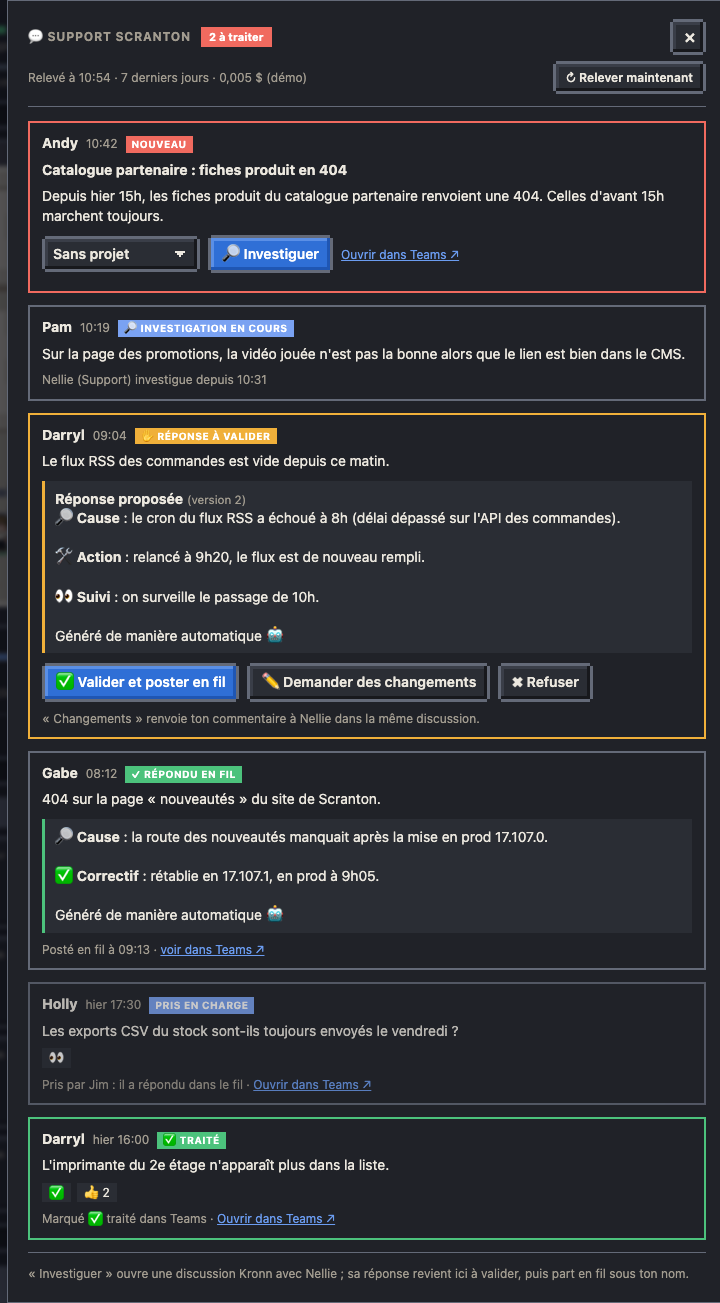
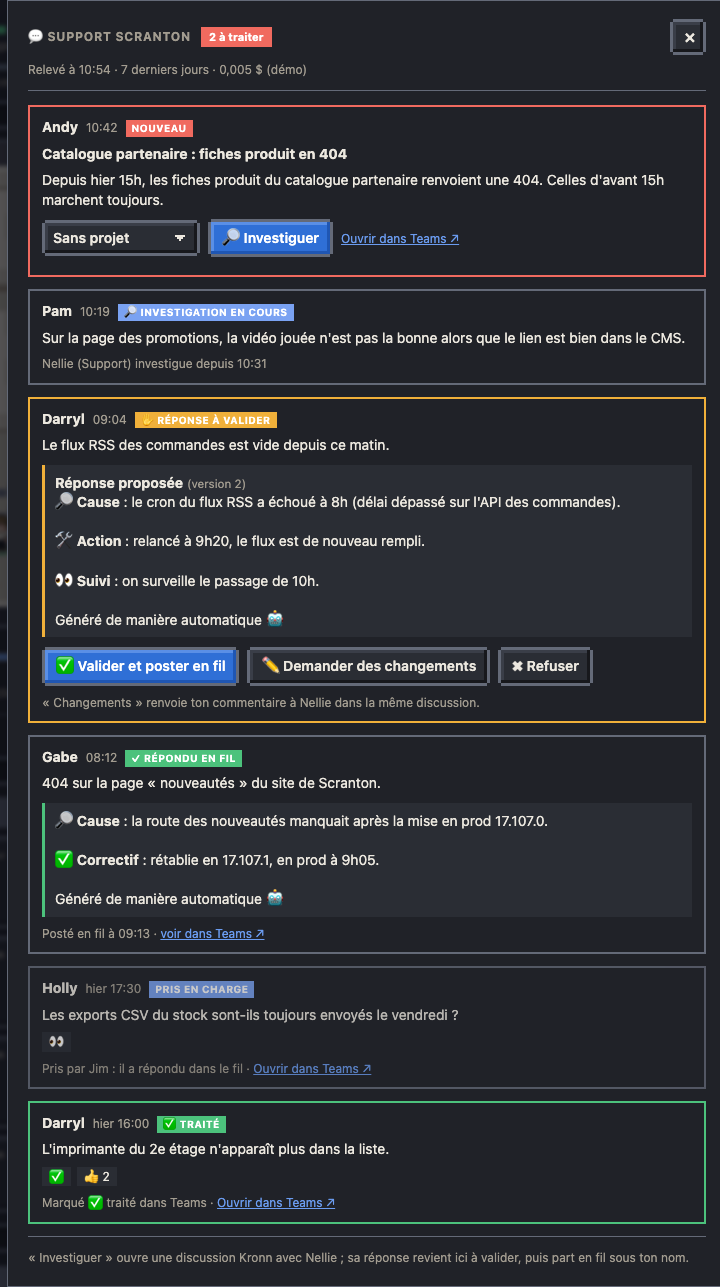
fix: Support (Fraîcheur, Jira, réessayer après refus) et scènes d'équipe visibles en direct (#101)
## 🎯 Quoi et pourquoi
Suites de la console Support (#62) et des scènes d'équipe, vues en vrai
:
- le relevé Support n'avait pas sa ligne dans le panneau Fraîcheur des
données (`FRESH_SRC` ne l'avait pas reçu), donc pas de « ↻ » comme les
autres crons du Bureau ; la fenêtre Support avait à la place son propre
« Relever maintenant » : deux endroits pour la même action ;
- première investigation avec un ticket Jira cité (EW-7929) : l'étape
Agent n'a que ses outils déclarés (`agent_settings.tools`), sans
connecteur Atlassian. C'est l'agent de la discussion, réveillé par
chaque `disc_append` du Pompier, qui a lu le ticket, en parallèle et en
contradiction avec lui (« récupéré via l'API Jira » puis « impossible
d'ouvrir le ticket ») ;
- refuser une réponse à la gate passait le fil en « ignoré » sans «
Investiguer » : impossible de réessayer depuis la fenêtre ;
- Gandalf (ticket réouvert, scène de 3 min) et la soucoupe-mère ne se
voyaient presque jamais en direct : le cron équipe passe toutes les 10
min, la page apprenait l'événement après la fin de la scène (vu le 21 :
EW-7814 réouvert à 14h36, connu à 14h40).

## 🔧 Changements
**Panneau Fraîcheur** (fix(page))
- `page/src/33-freshness.js` : ligne « Support (Teams) »
(`support_poll`, rien en démo), donc son « ↻ » / « ↻ Relancer » ; le
dernier relevé en échec dans le diagnostic.
- Test (`tests/logic.test.js`), guide `10-fraicheur.md`.

**Un seul endroit pour relever** (refactor(support))
[…]

diff --git a/page/src/48-support.js b/page/src/48-support.js
@@ -86,9 +86,9 @@ function spCard(t){
   if(st==='answered')h+=`<div class="sp-s">Pris par ${esc(spWho(t.by))} : il a répondu dans le fil · ${spTeams(t)}</div>`;
   if(st==='relaunched')h+=`<div class="sp-s">${esc(spWho(t.from))} a relancé après la réponse de ${esc(spWho(t.by))} · ${spTeams(t)}</div>`;
   if(st==='resolved')h+=`<div class="sp-s">Marqué ✅ traité dans Teams · ${spTeams(t)}</div>`;
-  if(st==='ignored')h+=`<div class="sp-s">Réponse refusée : rien n'a été posté${dl}.</div>`;
+  if(st==='ignored')h+=`<div class="sp-s">Réponse refusée : rien n'a été posté${dl}. Tu peux relancer une investigation.</div>`;
   el.innerHTML=h;
-  if(st==='new'||st==='failed'||st==='relaunched')spInvestigate(el,t);
+  if(st==='new'||st==='failed'||st==='relaunched'||st==='ignored')spInvestigate(el,t); // ignoré : réponse refusée, on peut réessayer
   if(st==='gate')spGate(el,t,s.g,dl);
   return el;
 }
@@ -137,8 +137,7 @@ function spHead(){
   const polled=S.polled_at?'Relevé à '+spWhen(S.polled_at)+(S.days?' · '+S.days+' derniers jours':'')+(S.cost?' · '+String(S.cost).replace('.',',')+' $':''):'Pas encore relevé';
   return `<div class="bp-head sp-head"><h2>💬 ${esc(spName())}</h2><span class="sp-pill${n?' sp-hot':''}">${n?n+' à traiter':'rien à traiter'}</span>`+
     `<button type="button" class="bp-x" aria-label="Fermer">×</button></div>`+
-    `<div class="sp-host" data-kronn-action-slot-host><div class="sp-bar"><span class="sp-s">${esc(polled)}${S.demo?' (démo)':''}</span>`+
-    (ACTIONS.support_poll?'<button type="button" class="sp-poll" data-kronn-action="bureau-supportpoll">↻ Relever maintenant</button>':'')+'</div></div>'+
+    `<div class="sp-bar"><span class="sp-s">${esc(polled)}${S.demo?' (démo)':''}</span></div>`+ // relever maintenant : « ↻ » du panneau Fraîcheur
     (S.error?`<p class="sp-err">Dernier relevé en échec : ${esc(S.error)}</p>`:'');
 }
 function openSupport(){
@@ -156,11 +155,8 @@ function spFill(box){
   const l=spThreads().sort((a,b)=>ms(b.at)-ms(a.at));
   for(const t of l)box.appendChild(spCard(t));
   if(!l.length){const S=SUPPORT||{};box.insertAdjacentHTML('beforeend',`<div class="sp-empty"><div class="sp-e-ico">${S.polled_at?'🧯':'📡'}</div><b>${S.polled_at?'Rien à signaler':'Pas encore de relevé'}</b>`+
-    `<span>${S.polled_at?'Aucun message sur '+esc(spName())+' ces '+(S.days||7)+' derniers jours.':'Le premier relevé arrive dans les 15 minutes'+(ACTIONS.support_poll?', ou tout de suite avec « Relever maintenant »':'')+'.'}</span></div>`);}
+    `<span>${S.polled_at?'Aucun message sur '+esc(spName())+' ces '+(S.days||7)+' derniers jours.':'Le premier relevé arrive dans les 15 minutes, ou tout de suite avec « ↻ » sur sa ligne de Fraîcheur des données.'}</span></div>`);}
   box.insertAdjacentHTML('beforeend',`<p class="sp-note">« Investiguer » ouvre une discussion Kronn avec ${esc((spAgent()||{name:'l\'agent Support'}).name)} ; sa réponse revient ici à valider, puis part en fil sous ton nom.</p>`);
-  const pb=box.querySelector('.sp-poll');
-  if(pb)new MutationObserver(()=>{const v=pb.getAttribute('data-kronn-action-state'), s=box.querySelector('.sp-bar .sp-s');
-    if(s&&v==='succeeded')s.innerHTML='<b style="color:var(--ok)">✓ Relevé lancé.</b> La fenêtre se met à jour toute seule, dans une minute environ.';}).observe(pb,{attributes:true,attributeFilter:['data-kronn-action-state']});
 }
 // fiche de l'agent Support : le nombre à traiter, les deux derniers fils, et la console (on y investigue : projet choisi
 // dans la liste, commentaire dans la carte Kronn)

diff --git a/page/office_template.html b/page/office_template.html
@@ -110,7 +110,6 @@
 <script type="application/kronn-action" data-action-id="bureau-fixpr">{"kind":"workflow","target_id":"__FIXPR_WF__","values":[{"name":"repo","provenance":"dynamic_binding","source_ref":"<page.dataset.actions.prs.find(id).repo>"},{"name":"pr","provenance":"dynamic_binding","source_ref":"<page.dataset.actions.prs.find(id).n>"},{"name":"notes","provenance":"user_input"}]}</script>
 <script type="application/kronn-action" data-action-id="bureau-meppr">{"kind":"workflow","target_id":"__MEPPR_WF__","values":[{"name":"project","provenance":"dynamic_binding","source_ref":"<page.dataset.actions.prs.find(id).repo>"},{"name":"pr_number","provenance":"dynamic_binding","source_ref":"<page.dataset.actions.prs.find(id).n>"},{"name":"jira_ticket_key","provenance":"user_input"},{"name":"dry_run","provenance":"user_input"}]}</script>
 <script type="application/kronn-action" data-action-id="bureau-support">{"kind":"workflow","target_id":"__SUPPORT_WF__","values":[{"name":"message_id","provenance":"dynamic_binding","source_ref":"<page.dataset.support.threads.find(id).id>"},{"name":"project_id","provenance":"dynamic_binding","source_ref":"<page.dataset.gates.projects.find(id).id>"},{"name":"comment","provenance":"user_input"}]}</script>
-<script type="application/kronn-action" data-action-id="bureau-supportpoll">{"kind":"workflow","target_id":"__SUPPORTPOLL_WF__","values":[]}</script>
 
 <script>
 /*__SCRIPTS__*/

diff --git a/tests/boot.test.js b/tests/boot.test.js
@@ -25,10 +25,10 @@ test('les données Kronn (window.KronnPageData) remplacent la démo', () => {
   assert.equal(run('LIVE_DATA'), true);
 });
 
-test('squelette : 21 blocs kronn-action et les marqueurs CSS / JS', () => {
+test('squelette : 20 blocs kronn-action et les marqueurs CSS / JS', () => {
   const html = fs.readFileSync(path.join(__dirname, '..', 'page', 'office_template.html'), 'utf8');
   const ids = [...html.matchAll(/<script type="application\/kronn-action" data-action-id="([^"]+)">/g)].map(m => m[1]);
-  assert.deepEqual(ids, ['bureau-ask', 'bureau-relaunch', 'bureau-gate', 'bureau-answer', 'bureau-impl', 'bureau-mep', 'bureau-review', 'bureau-fix', 'bureau-comment', 'bureau-estimate', 'bureau-duck', 'bureau-mailrules', 'bureau-avatar', 'bureau-agent', 'bureau-launch', 'bureau-pages', 'bureau-rebase', 'bureau-fixpr', 'bureau-meppr', 'bureau-support', 'bureau-supportpoll']);
+  assert.deepEqual(ids, ['bureau-ask', 'bureau-relaunch', 'bureau-gate', 'bureau-answer', 'bureau-impl', 'bureau-mep', 'bureau-review', 'bureau-fix', 'bureau-comment', 'bureau-estimate', 'bureau-duck', 'bureau-mailrules', 'bureau-avatar', 'bureau-agent', 'bureau-launch', 'bureau-pages', 'bureau-rebase', 'bureau-fixpr', 'bureau-meppr', 'bureau-support']);
   assert.equal(html.split('/*__STYLES__*/\n').length, 2);
   assert.equal(html.split('/*__SCRIPTS__*/\n').length, 2);
 });

diff --git a/tests/logic.test.js b/tests/logic.test.js
@@ -251,6 +251,18 @@ test('fraîcheur : texte d\'attente en secondes, en minutes, puis en pause hors 
   assert.equal(w('live', '2026-10-03T19:59:10Z', '2026-10-03T22:30:00Z').txt, 'en pause · reprise à 7h');
 });
 
+test('fraîcheur : le relevé Support a sa ligne (et son « ↻ ») comme les autres crons, son échec dans le diagnostic ; rien en démo', () => {
+  run(`CFG.schedules={}; CFG.workflows={support_poll:'wf-sp'}; DATA={crons:[{wf:'wf-sp',schedule:'7-59/15 7-19 * * 1-5'}],runs:[]};
+    SUPPORT={generated_at:'2026-10-01T08:07:20Z',error:'jeton refusé',threads:[]}; OFFICE={}; TEAM_BASE=null; WARNINGS={};`);
+  const src = 'FRESH_SRC.find(s=>s.key===\'support_poll\')';
+  const f = JSON.parse(run(`JSON.stringify(freshness(${src}, ${Date.parse('2026-10-01T08:10:00Z')}))`));
+  assert.equal(new Date(f.eta).toISOString(), '2026-10-01T08:22:23.000Z'); // 08:22 + 20 s de run + 3 s
+  assert.match(run('diagTxt()'), /Support \(Teams\) : dernier relevé en échec \(jeton refusé\)/);
+  run(`SUPPORT={...SUPPORT,demo:true}`);
+  assert.equal(run(`String(freshness(${src}, 0))`), 'null');
+  assert.doesNotMatch(run('diagTxt()'), /Support/);
+});
+
 test('durées : jamais « 4 h 60 » ni « 60 min »', () => {
   const r = code => run(code);
   assert.equal(r(`sinceTxt(${4 * 3600e3 + 59.7 * 60e3})`), '5 h 00');

diff --git a/page/src/37-scenes.js b/page/src/37-scenes.js
@@ -7,11 +7,12 @@ const FLOW=Object.assign({test:'To Test',validated:'To Deploy',reopened:'Reopen'
 const shortKey=k=>String(k).replace(/^[A-Z][A-Z0-9]*-/,'');
 const deskZone=c=>c.boss?'boss':'desk'; // le boss reste à son bureau de boss
 let MOVES_MEMO={team:null,list:[]};
-// passages du jour à tester, validé, réouvert (team.events) : {t, key, kind, author, dev (l'assigné), qa (le testeur)}
+// passages du jour à tester, validé, réouvert (team.events) : {t, key, kind, author, dev (l'assigné), qa (le testeur)} ;
+// t = première vue par le cron équipe (seen) quand il l'a appris en retard, pour que la scène se joue en direct
 function teamMoves(){
   if(MOVES_MEMO.team===TEAM)return MOVES_MEMO.list;
   const kind={[FLOW.test]:'test',[FLOW.validated]:'validated',[FLOW.reopened]:'reopened'}, qa=chars.find(x=>x.person&&x.roleKind==='qa')||null;
-  const list=((TEAM&&TEAM.events)||[]).filter(e=>e.kind==='move'&&kind[e.to]).map(e=>({t:ms(e.t),key:e.key,kind:kind[e.to],
+  const list=((TEAM&&TEAM.events)||[]).filter(e=>e.kind==='move'&&kind[e.to]).map(e=>({t:ms(e.seen||e.t),key:e.key,kind:kind[e.to],
     author:personChar(e.who,e.who_name),dev:chars.find(x=>x.person&&x.team&&(x.team.tickets||[]).some(k=>k.key===e.key))||null,qa}))
     .sort((a,b)=>a.t-b.t);
   MOVES_MEMO={team:TEAM,list};

diff --git a/page/src/33-freshness.js b/page/src/33-freshness.js
@@ -9,6 +9,7 @@ const FRESH_SRC=[
   {key:'canard',label:'Canard d\'équipe',period:3600e3,grace:600e3,gen:()=>DUCKGAME&&DUCKGAME.generated_at},
   {key:'absences',label:'Absences (planning)',period:3600e3,grace:600e3,gen:()=>ABSENCES&&!ABSENCES.demo&&ABSENCES.generated_at},
   {key:'courrier',label:'Courrier',period:600e3,grace:300e3,gen:()=>MAILS&&!MAILS.demo&&MAILS.generated_at},
+  {key:'support_poll',label:'Support (Teams)',period:900e3,grace:600e3,gen:()=>SUPPORT&&!SUPPORT.demo&&SUPPORT.generated_at}, // #62
 ];
 function cronOf(key){
   if((CFG.schedules||{})[key])return CFG.schedules[key]; // modèles de workflows (assemblage)
@@ -69,6 +70,7 @@ function diagTxt(){
     out.push(`<div class="diag late">${esc(label)} : dernier passage en échec${f.at?' à '+hm(ms(f.at)):''}`+
       (f.step?` (étape ${esc(f.step)}${f.err?' : '+esc(f.err):''})`:'')+'</div>');
   }
+  if(SUPPORT&&!SUPPORT.demo&&SUPPORT.error)out.push(`<div class="diag late">Support (Teams) : dernier relevé en échec (${esc(SUPPORT.error)})</div>`);
   const src=TEAM_BASE&&TEAM_BASE.sources;
   if(src&&src.github_errors&&src.github_errors.length)
     out.push('<div class="diag late">GitHub : '+src.github_errors.slice(0,3).map(esc).join(' · ')+'</div>');

diff --git a/tests/reopen.test.js b/tests/reopen.test.js
@@ -94,3 +94,13 @@ test('sprint clôturé le matin de sa fin, le suivant déjà ouvert : pizzas qua
     assert.equal(st('p_pam', '12:10').st, 'pizza', 'ancien dataset sans planned_end : date de clôture');
   } finally { run(`TEAM.sprint=${JSON.stringify(sprint)};TEAM.prev_sprint=${prev};`); }
 });
+
+test('appris en retard par le cron équipe (seen) : la scène part de la première vue, pour se jouer en direct', () => {
+  run('TEAM=mergedTeam();');
+  const saved = run('JSON.stringify(TEAM.events)');
+  try {
+    run(`TEAM.events=TEAM.events.map(e=>e.kind==='move'&&e.key==='DM-7089'&&e.to==='Reopen'?{...e,seen:'2026-10-01T10:58:00+02:00'}:e);MOVES_MEMO={team:null,list:[]};`);
+    assert.deepEqual(J(`teamMoves().filter(m=>m.kind==='reopened').map(r=>r.t)`), [at('10:58')]);
+    assert.equal(st('g_gandalf', '10:59').st, 'reopen'); // sans seen, la scène (10h50-10h53) serait finie
+  } finally { run(`TEAM.events=${saved};MOVES_MEMO={team:null,list:[]};`); }
+});

diff --git a/tests/support.test.js b/tests/support.test.js
@@ -122,3 +122,11 @@ test('fiche de l\'agent Support : la console au lieu d\'un « Lancer » à rempl
   assert.match(html, /<div class="rl-s sp-t" title="Flux RSS vide">Pam, .* : Flux RSS vide<\/div>/); // une ligne, sujet entier au survol
   assert.match(J(`(() => { const s = {kids: [], appendChild(x) { this.kids.push(x); }}; spFiche(s); return s.kids[0].className; })()`), /\bsp-fiche\b/);
 });
+
+test('fil ignoré (réponse refusée à la gate) : « Investiguer » pour réessayer, comme un fil nouveau', () => {
+  run(`var SP_CALLS = []; var spInvestigateOrig = spInvestigate; spInvestigate = (el, t) => SP_CALLS.push(t.id);`);
+  try {
+    for (const st of ['ignored', 'new', 'done']) { set([th(st, st)]); run(`spCard(SUPPORT.threads[0])`); }
+    assert.deepEqual(J('SP_CALLS'), ['ignored', 'new'], 'répondu en fil : pas de nouvelle investigation');
+  } finally { run('spInvestigate = spInvestigateOrig;'); }
+});

diff --git a/page/src/styles.css b/page/src/styles.css
@@ -638,7 +638,7 @@ body.tv.tvscene #tvscene{display:flex;flex-direction:column}
 .sp-pill.sp-hot{background:var(--err);color:#fff}
 .sp-host{display:block;width:100%}
 .sp-bar{display:flex;align-items:center;gap:10px;padding:0 0 12px;margin:0 0 14px;border-bottom:1px solid var(--line)}
-.sp-bar .sp-s{margin:0;flex:1}.sp-poll{font-size:12px;padding:5px 10px}
+.sp-bar .sp-s{margin:0;flex:1}
 .sp-card{border:2px solid var(--line);border-radius:10px;padding:10px 12px;margin:0 0 12px}
 .sp-new,.sp-failed{border-color:var(--err)}.sp-gate{border-color:var(--warn)}.sp-answered,.sp-ignored{opacity:.75}
 .sp-top{display:flex;gap:8px;align-items:baseline;flex-wrap:wrap}.sp-t{color:var(--muted);font-size:12px}

diff --git a/tests/ufo.test.js b/tests/ufo.test.js
@@ -79,3 +79,11 @@ test('avec « réduire les animations » : pas de vaisseau', () => {
   p.run('TEAM=mergedTeam();');
   assert.ok(!JSON.parse(p.run(`JSON.stringify(fxEvents(${at('14:21')}).map(e=>e.kind))`)).includes('ufo'));
 });
+
+test('vue en retard par le cron équipe (seen) : la soucoupe arrive à la première vue', () => {
+  const saved = run('JSON.stringify(TEAM.events)');
+  try {
+    run(`TEAM.events=TEAM.events.map(e=>e.kind==='sprint_in'?{...e,seen:'2026-10-01T14:28:00+02:00'}:e);UFO_M={};`);
+    assert.deepEqual(J('ufoLandings().map(u=>u.at)'), [at('14:28')]);
+  } finally { run(`TEAM.events=${saved};UFO_M={};`); }
+});

diff --git a/page/src/43-fx.js b/page/src/43-fx.js
@@ -123,7 +123,7 @@ let UFO_M={};
 function ufoLandings(){
   if(UFO_M.t===TEAM)return UFO_M.l;const l=[];
   for(const e of ((TEAM&&TEAM.events)||[]).filter(e=>e.kind==='sprint_in').sort((a,b)=>ms(a.t)-ms(b.t))){
-    const t=ms(e.t),u=l[l.length-1];
+    const t=ms(e.seen||e.t),u=l[l.length-1]; // seen : vue en retard par le cron équipe (37-scenes.js, teamMoves)
     if(u&&t-u.end<3e5){u.end=t;if(!u.keys.includes(e.key)){u.keys.push(e.key);u.pts+=+e.points||0;}}
     else l.push({at:t,end:t,keys:[e.key],pts:+e.points||0});
   }

diff --git a/workflows/support.py b/workflows/support.py
@@ -389,7 +389,8 @@ ASK = """Tu es l'agent Support. Lis d'abord les derniers messages de ta discussi
 été ajoutées depuis le tour précédent. Investigue, en résumant au fil de l'eau ce que tu trouves dans la discussion.
 Puis rédige la réponse qui sera postée en fil sous le nom de la personne qui t'a lancé (elle la valide d'abord).
 Fais toi-même les lectures (Read, Grep, Glob, Bash en lecture seule), sans lancer d'agent ni de tâche en
-arrière-plan, et sans rendre la main avant d'avoir la réponse. Résume ce que tu trouves dans ta discussion (disc_append).
+arrière-plan, et sans rendre la main avant d'avoir la réponse. Résume ce que tu trouves dans ta discussion en notes
+(disc_append avec channel "note" et wait_for_reply false : une note ne réveille pas l'agent de la discussion).
 Ta réponse finale, et rien d'autre : en français, concise, une ligne par section, chacune avec son emoji, par exemple
 🔎 Cause : …
 🛠 Action : …
@@ -397,6 +398,14 @@ Ta réponse finale, et rien d'autre : en français, concise, une ligne par secti
 (d'autres sections si utile : ✅ Correctif, ❓ Question, 📎 Lien). Rien avant la première section ni après la
 dernière (ni « voici la réponse », ni « je la publie ? ») ; pas de titre, pas de signature, pas de formule de
 politesse : la mention « Généré de manière automatique » est ajoutée après."""
+
+
+def jira_hint():
+    """Lire un ticket Jira cité : api_call et la connexion Jira du Bureau (Kronn ajoute l'authentification), en lecture."""
+    cid = (CFG.get("jira") or {}).get("config_id")
+    return (f'\nUn ticket Jira cité (ex. EW-1234) : lis-le avec api_call (api_plugin_slug "mcp-atlassian", api_config_id "{cid}", '
+            'method GET, endpoint_path "/rest/api/2/issue/<clé>", query fields "summary,description,status,priority,comment"), '
+            "jamais par curl ; en lecture seulement.") if cid else ""
 
 
 def open_(msg, pid, run_id, comment):
@@ -419,7 +428,7 @@ def open_(msg, pid, run_id, comment):
     c.setdefault("runs", {})[run_id] = {"msg": msg, "disc": disc["id"], "project": pid, "version": 0, "at": iso(now())}
     save(c)
     print(f"---STATE:disc={disc['id']}---")
-    print(text + "\n\n" + ASK)
+    print(text + "\n\n" + ASK + jira_hint())
 
 
 def draft(run_id, text):
